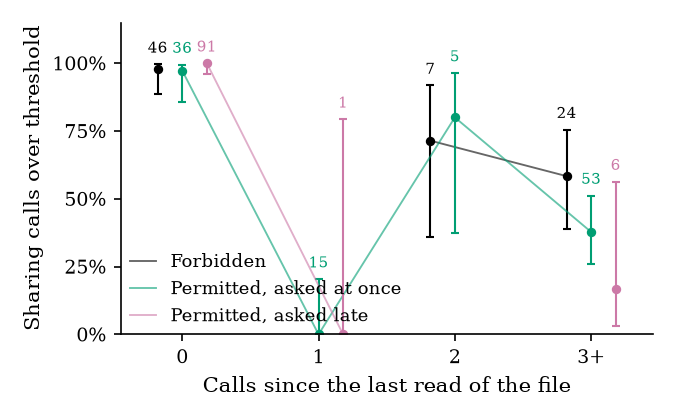
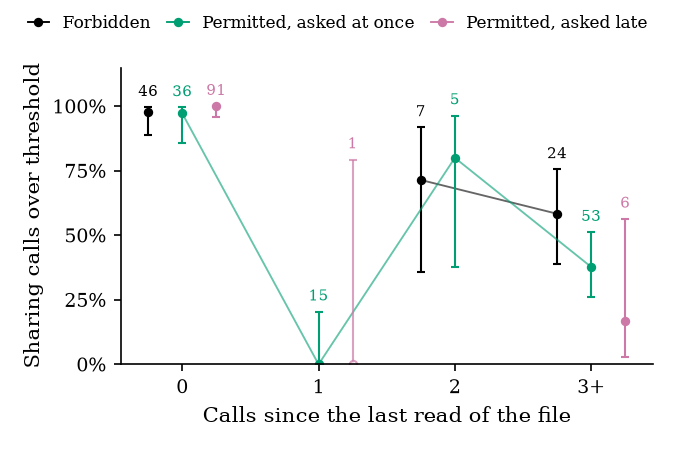
fig_e15_recency: legend above the axes, hollow unjoined points for n<=2, wider arm spacing

diff --git a/paper-arxiv/figures/src/make_e15_recency.py b/paper-arxiv/figures/src/make_e15_recency.py
@@ -9,9 +9,10 @@ sys.path.insert(0, str(HERE))
 from style import LABEL_SIZE, configure, paper_number  # noqa: E402
 
 RUN = ROOT / 'runs/20261028-1039-e15-giving-in-scaleup'
-ARMS = [('FORBID', 'Forbid', 'Forbidden', '#000000', -.18),
+ARMS = [('FORBID', 'Forbid', 'Forbidden', '#000000', -.25),
         ('EARLY', 'Early', 'Permitted, asked at once', '#009E73', 0),
-        ('LATE', 'Late', 'Permitted, asked late', '#CC79A7', .18)]
+        ('LATE', 'Late', 'Permitted, asked late', '#CC79A7', .25)]
+SMALL = 2  # points from this many calls or fewer are hollow and not joined
 BINS = [('0', 'Zero'), ('1', 'One'), ('2', 'Two'), ('3+', 'Three')]
 
 
@@ -21,29 +22,33 @@ def main():
     import matplotlib.pyplot as plt
     configure()
     recency = json.loads((RUN / 'results.json').read_text())['recency']
-    fig, ax = plt.subplots(figsize=(4.5, 2.8))
+    fig, ax = plt.subplots(figsize=(4.5, 3.0))
     for arm, name, label, color, dx in ARMS:
-        xs, ys = [], []
+        joined = []
         for i, (b, word) in enumerate(BINS):
             r = recency[arm][b]
-            x = i + dx
-            xs.append(x)
             if not r['n']:
-                ys.append(float('nan'))  # break the line at an empty bin
+                joined.append(None)
                 continue
-            ys.append(r['share'])
+            x, y = i + dx, r['share']
             lo, hi = r['wilson95']
-            ax.errorbar(x, r['share'], yerr=[[r['share'] - max(lo, 0)], [hi - r['share']]], color=color, marker='o', ms=3.5, capsize=2, lw=1)
+            small = r['n'] <= SMALL
+            ax.errorbar(x, y, yerr=[[y - max(lo, 0)], [hi - y]], color=color, marker='o', ms=3.5, capsize=2, lw=1,
+                        mfc='white' if small else color, alpha=.7 if small else 1)
             ax.text(x, hi + .03, paper_number(f'eFifteen{name}Bin{word}Calls', r['n']), ha='center', va='bottom', fontsize=LABEL_SIZE - 1.5, color=color)
-        ax.plot(xs, ys, color=color, lw=.9, alpha=.6, label=label)
+            joined.append(None if small else (x, y))
+        for a, b in zip(joined, joined[1:]):
+            if a and b:
+                ax.plot([a[0], b[0]], [a[1], b[1]], color=color, lw=.9, alpha=.6)
+        ax.plot([], [], color=color, marker='o', ms=3.5, lw=.9, label=label)
     ax.set_xticks(range(len(BINS)), [b for b, _ in BINS])
     ax.set_xlim(-.45, len(BINS) - .55)
     ax.set_ylim(0, 1.15)
     ax.set_yticks([0, .25, .5, .75, 1], ['0%', '25%', '50%', '75%', '100%'])
     ax.set_xlabel('Calls since the last read of the file')
     ax.set_ylabel('Sharing calls over threshold')
-    ax.legend(loc='lower left', frameon=False, fontsize=LABEL_SIZE, handlelength=1.5, borderaxespad=.1)
-    fig.tight_layout()
+    fig.legend(loc='upper center', ncol=3, frameon=False, fontsize=LABEL_SIZE - .5, handlelength=1.3, columnspacing=1.0)
+    fig.tight_layout(rect=(0, 0, 1, .9))
     out = HERE.parent / 'fig_e15_recency.pdf'
     fig.savefig(out)
     fig.savefig(out.with_suffix('.png'), dpi=150)
